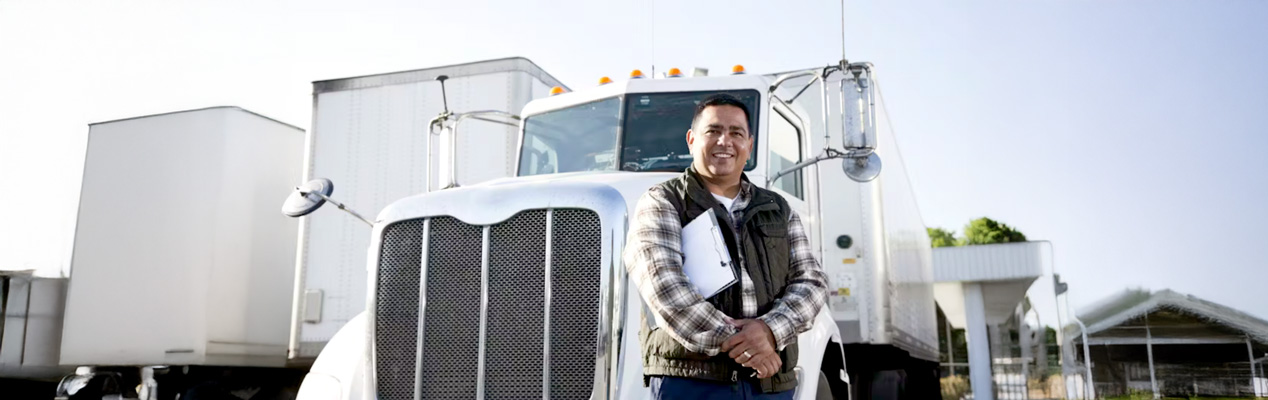
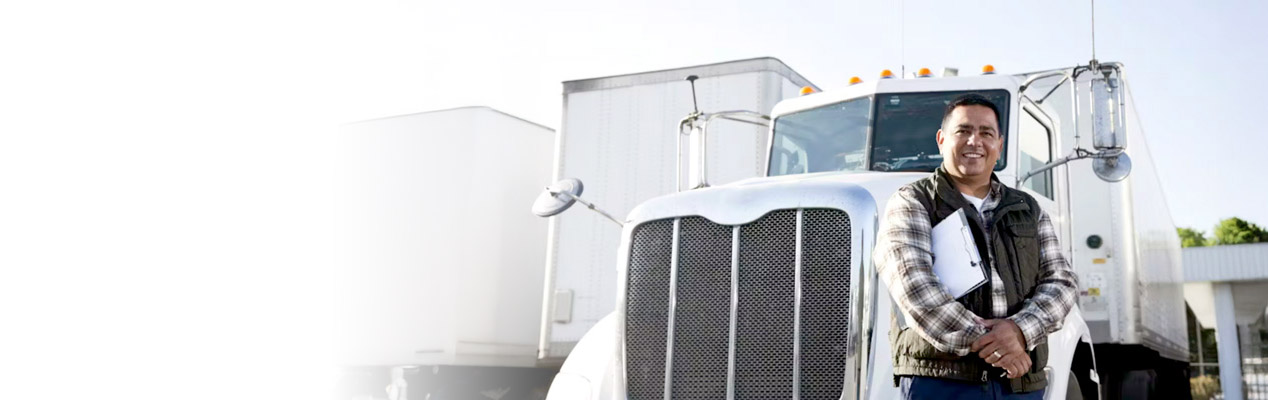
changes

diff --git a/ezinsure/CommercialAutoInsurance.html b/ezinsure/CommercialAutoInsurance.html
@@ -48,8 +48,8 @@
   </header>
  <section id="hero" class="hero position-relative">
       <div class="container">
-        <div class="row align-items-center justify-content-center">
-          <div class="col-12 text-center">
+        <div class="row align-items-center">
+          <div class="col-12 hero-content">
             <h1 class="hero-heading">
              Get Commercial Auto Insurance
               <span id="state-name"></span>
@@ -57,7 +57,7 @@
             <p>
               Compare Plans Starting From $69.95/Month!
             </p>
-            <div class="quote-form mx-auto ">
+            <div class="quote-form">
               <div class="input-grp">
                 <input
                   id="zipcode"
@@ -82,15 +82,12 @@
               </a>
             </div>
           </div>
-          <div class="col-12">
-            <img
-              src="assets/images/truck-driver.jpg"
-              alt="Commercial Truck Driver"
-              class="hero-image"
-            />
-          </div>
+          
         </div>
+       
       </div>
+        <img src="assets/images/truck-driver.jpg" alt="Contractor" class="hero-bg d-none d-lg-block" />
+          <img src="assets/images/Comm-Trucker-900x900-1.png.webp" alt="Contractor" class="hero-bg d-block d-lg-none" />
     </section>
   <section class="insurace-partners text-center">
     <div class="container">
@@ -103,6 +100,7 @@
             <div class="col-12">
               <img src="assets/images/commercialcarrierlogos-desktop2025-scaled.webp" alt="national_general"
                 class="provider-logo" />
+                
             </div>
 
           </div>

diff --git a/ezinsure/contractors-insurance.html b/ezinsure/contractors-insurance.html
@@ -2,11 +2,11 @@
 <html>
 
 <head>
-  <title>Contractors Insurance | ez.insure</title>
+  <title>Small Business Insurance | ez.insure</title>
   <link rel="icon" href="assets/images/favicon.png" type="image/png" />
   <meta charset="utf-8" />
-  <meta name="keywords" content="Contractors Insurance, Commercial Insurance" />
-  <meta name="description" content="Compare Contractors Insurance Plans" />
+  <meta name="keywords" content="Small Business Insurance, Commercial Insurance" />
+  <meta name="description" content="Compare Small Business Insurance Plans" />
   <meta name="viewport" content="width=device-width, initial-scale=1" />
   <link href="https://fonts.googleapis.com/css2?family=Roboto:wght@300;400;500;700;900&display=swap" rel="stylesheet" />
   <link href="https://cdn.jsdelivr.net/npm/bootstrap@5.2.3/dist/css/bootstrap.min.css" rel="stylesheet"
@@ -50,7 +50,7 @@
       <div class="row align-items-center justify-content-end">
         <div class="col-xl-7 col-lg-8 col-mg-8 col-12 hero-content">
           <h1 class="hero-heading">
-            Contractors Insurance
+            Small Business Insurance
 
             <span id="state-name"></span>
           </h1>
@@ -141,7 +141,7 @@
       <div class="row">
         <div class="col-12 text-center">
           <h2 class="section-title">
-            Why You Need Contractors Insurance
+            Why You Need Small Business Insurance
 
           </h2>
           <p><em><strong>What It Covers:</strong></em></p>

diff --git a/ezinsure/assets/scss/commercialauto.css b/ezinsure/assets/scss/commercialauto.css
@@ -93,6 +93,14 @@ header.header .phone .phone-no {
   position: relative;
   z-index: 1;
 }
+.hero .container .row {
+  min-height: 400px;
+}
+@media screen and (max-width: 992px) {
+  .hero .container .row {
+    min-height: auto;
+  }
+}
 @media screen and (max-width: 1040px) {
   .hero {
     height: auto;
@@ -102,12 +110,29 @@ header.header .phone .phone-no {
     padding: 16px;
   }
 }
-.hero .hero-image {
-  border-radius: 20px;
-  min-height: 400px;
+@media screen and (max-width: 1040px) {
+  .hero .hero-content {
+    background-color: #FFF;
+    border-radius: 30px;
+    box-shadow: 0 4px 16px rgba(0, 0, 0, 0.1);
+    padding: 16px;
+    margin-top: 200px;
+  }
+}
+.hero .hero-bg {
+  position: absolute;
+  top: 0;
+  right: 0;
+  width: 100%;
+  height: 100%;
+  -o-object-fit: cover;
+     object-fit: cover;
+  z-index: 0;
+  left: 0;
+  bottom: 0;
 }
 @media screen and (max-width: 1040px) {
-  .hero .hero-image {
+  .hero .hero-bg {
     display: none;
   }
 }
@@ -161,6 +186,7 @@ header.header .phone .phone-no {
     text-align: center;
     max-width: 340px;
     margin: auto;
+    box-shadow: none;
   }
 }
 .quote-form .input-grp {

diff --git a/ezinsure/assets/scss/commercialauto.scss b/ezinsure/assets/scss/commercialauto.scss
@@ -177,6 +177,12 @@ header.header {
   .container {
     position: relative;
     z-index: 1;
+      .row {
+    min-height: 400px;
+    @include mdmax {
+      min-height: auto;
+    }
+  }
   }
   @include lgmax {
     height: auto;
@@ -185,13 +191,31 @@ header.header {
     text-align: center;
     padding: 16px;
   }
-  .hero-image {
-    border-radius: 20px;
-    min-height: 400px;
+   .hero-content {
+    @include lgmax {
+      background-color: #FFF;
+      border-radius: 30px;
+      box-shadow: 0 4px 16px rgba(0, 0, 0, 0.1);
+      padding: 16px;
+      margin-top: 200px;
+    }
+  }
+ .hero-bg {
+    position: absolute;
+    top: 0;
+    right: 0;
+    width: 100%;
+    height: 100%;
+    object-fit: cover;
+
+    z-index: 0;
+    left: 0;
+    bottom: 0;
     @include lgmax {
       display: none;
     }
   }
+
 
   h1 {
     color: #000;
@@ -239,6 +263,7 @@ header.header {
     text-align: center;
     max-width: 340px;
     margin: auto;
+    box-shadow: none;
   }
   .input-grp {
     display: flex;
